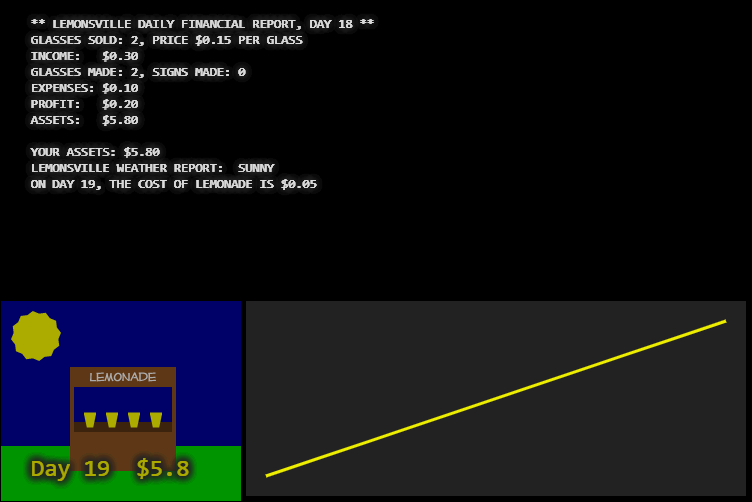
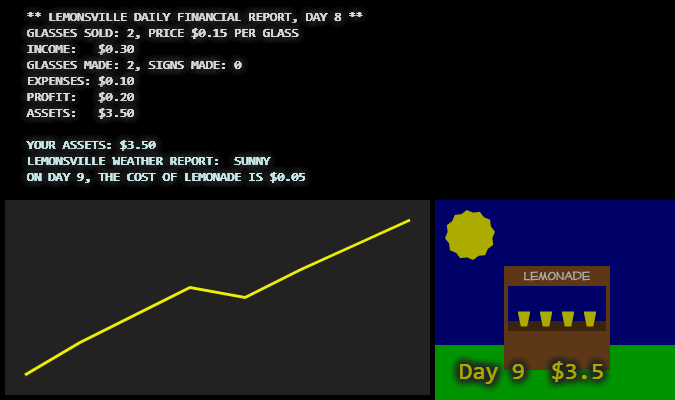
lemonade: improving help page.

diff --git a/src/main/webapp/resources/help/lemonade.html b/src/main/webapp/resources/help/lemonade.html
@@ -69,17 +69,17 @@
                             Стоимость стакана лимонада для вас составляет всего $0.02 (C), но со временем эта величина может измениться.
                             На каждом ходу вам нужно решить, как потратить имеющиеся деньги, и вы выражаете своё решение, сообщая компьютеру три числа:
                             <ol>
-                                <li>L = Сколько стаканов лимонада вы приготовите этим утром (целое число от 0 до 1000)</li>
-                                <li>S = Сколько рекламных плакатов вы установите в округе, каждый плакат стоит для вас $0.15 (целое число от 0 до 50)</li>
-                                <li>P = Цена, которую вы просите за каждый стакан (цена в центах, целое число от 0 до 100)</li>
+                                <li>L = Сколько стаканов лимонада вы приготовите этим утром (<code>glasses made</code>, целое число от 0 до 1000)</li>
+                                <li>S = Сколько рекламных плакатов вы установите в округе, каждый плакат стоит для вас $0.15 (<code>signs made</code>, целое число от 0 до 50)</li>
+                                <li>P = Цена, которую вы просите за каждый стакан (<code>price</code>, цена в центах, целое число от 0 до 100)</li>
                             </ol>
                             Результатом для вас является финансовый отчёт, который показывает:
                             <ul>
-                                <li>E = S &times; 0.15 &plus; L &times; C = расходы на изготовление рекламных плакатов и приготовление лимонада;</li>
-                                <li>N = сколько стаканов было продано; </li>
-                                <li>M = N &times; P = доход;</li>
-                                <li>M &minus; E = полученная прибыль;</li>
-                                <li>A<sub>n+1</sub> = A<sub>n</sub> &plus; (M &minus; E) = ваш капитал после сегодняшнего дня.</li>
+                                <li>E = S &times; 0.15 &plus; L &times; C = расходы на изготовление рекламных плакатов и приготовление лимонада (<code>expenses</code>);</li>
+                                <li>N = сколько стаканов было продано (<code>glasses sold</code>);</li>
+                                <li>M = N &times; P = доход (<code>income</code>);</li>
+                                <li>M &minus; E = полученная прибыль (<code>profit</code>);</li>
+                                <li>A<sub>n+1</sub> = A<sub>n</sub> &plus; (M &minus; E) = ваш капитал после сегодняшнего дня (<code>assets</code>).</li>
                             </ul>
                             Величина N (сколько стаканов распродано) зависит от рекламы, цены за стакан, погоды, а также от некоторых случайных факторов.
                             В начале каждого дня вам сообщают прогноз погоды, но погода в течение дня может и поменяться.
@@ -115,7 +115,8 @@
                                 ON DAY 2, THE COST OF LEMONADE IS $0.02<br/>
                         </div>
                         <p>
-                            Эту информацию бот получает в виде JSON, который имеет вид (строка messages здесь разделена на отдельные строки для удобства просмотра):                            
+                            Эту информацию бот получает в виде JSON, который имеет вид
+                            (строка messages здесь разделена на отдельные строки для удобства просмотра, значения не обязательно передаются в этом порядке):
                         </p>
                         <pre>{
     "lemonadeCost": 0.02,
@@ -169,8 +170,8 @@
                         <p>Игровой экран на странице игры выглядит примерно так:<br/>
                             <img src="lemonade-board.png" /><br/>
                             Здесь слева вверху выведены сообщения от сервера (messages),<br/>
-                            слева внизу рисунок показывает прогноз погоды на сегодня, номер дня (day) и текущую сумму денег (assets),<br/>
-                            справа внизу находится график истории изменения суммы денег (assets) за последние 10 дней.
+                            справа внизу рисунок показывает прогноз погоды на сегодня, номер дня (day) и текущую сумму денег (assets),<br/>
+                            слева внизу находится график истории изменения суммы денег (assets) за последние 10 дней.
                         </p>
                         <p>Организаторы предоставляют игрокам подготовленные клиенты в исходном коде на нескольких языках:
                                 Java, C#, JavaScript, Python.<br/>
@@ -193,16 +194,14 @@
                         </ul>
                         <p>Если в этом списке нет нужного языка, придётся написать свой клиент.</p>
 
-                        <p>Адрес для подключения к игре на сервере http://codenjoy.com:</p>
-                        <pre>ws://tetrisj.jvmhost.net:12270/codenjoy-contest/ws?user=adf6q1zazvh5j9lkdmno&code=12345678901234567890</pre>
-
-                        <p>Адрес для подключения к игре на сервере, развернутом в локальной сети:</p>
-                        <pre>ws://server_ip:8080/codenjoy-contest/ws?user=adf6q1zazvh5j9lkdmno&code=12345678901234567890</pre>
-
-                        <p>Здесь <code>adf6q1zazvh5j9lkdmno</code> &ndash; код, его можно получить из адресной
-                            строки браузера после регистрации/логина,
-                            a <code>12345678901234567890</code> &ndash; это security token, его можно получить из адресной
-                            строки браузера после регистрации/логина.</p>
+                        <p>После регистрации на сервере в адресной строке браузера вы увидите URL вида:</p>
+                        <pre>http://epruryaw0576.moscow.epam.com:43022/codenjoy-contest/board/player/np0mlqtjasknp3554pi4?code=12345678901234567890</pre>
+                        <p>
+                            В коде вашего клиента вам нужно найти похожую строчку и заменить её на URL из вашего браузера &ndash; тем самым, вы задаёте логин/пароль для доступа к серверу.
+                            Затем запустите ваш клиент и убедитесь, что сервер получает команды вашего клиента.
+                            После этого можно приступать к работе над логикой вашего бота.
+                        </p>
+                        <p>Удачной игры!</p>
                     </div>
                 </div>
             </div>
